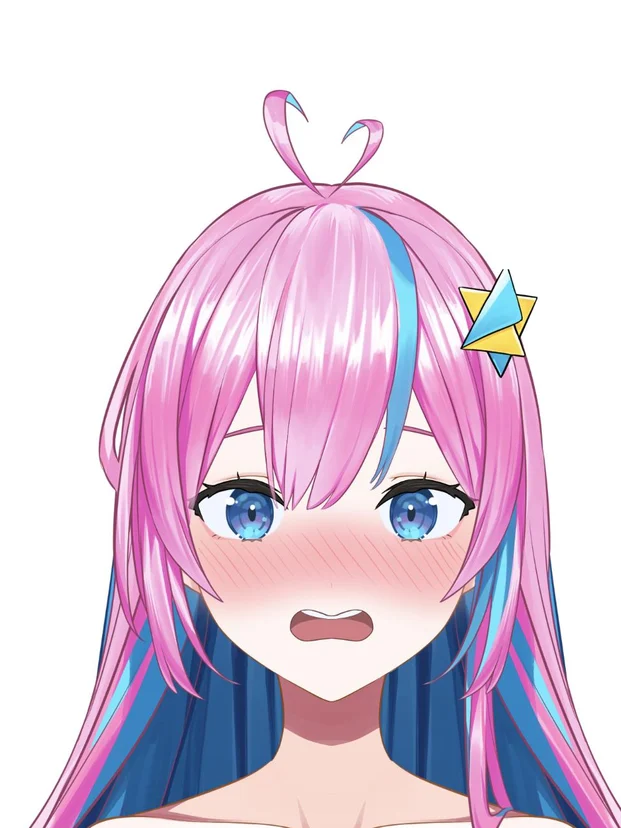
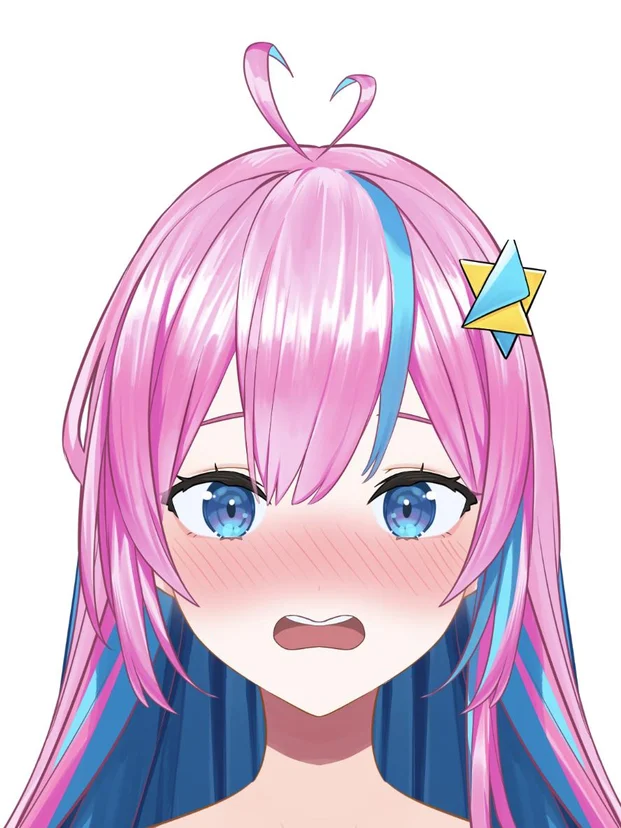
Live2D expressions: consistent centered crops
Claude-Session: https://claude.ai/code/session_0182ETGqkY6VZC2ACV9rE9Mb

diff --git a/index.html b/index.html
@@ -1066,7 +1066,7 @@ var ART = [
   { label:['อีโมต & ไอคอน','Emotes & Icons'], icon:'sticker', imgs:[['art-p-emote-1.webp',1014,1100],['art-p-emote-2.webp',1082,1100],['art-p-emote-3.webp',1100,1092],['art-p-emote-4.webp',1072,1100],['art-p-emote-5.webp',1100,1069],['art-p-emote-6.webp',1100,897],['art-p-emote-7.webp',995,1100],['art-p-emote-8.webp',907,1100],['art-p-emote-9.webp',1100,1096],['art-p-emote-10.webp',1100,895],['art-p-emote-11.webp',878,977],['art-p-emote-12.webp',981,990],['art-p-emote-13.webp',974,985],['art-p-emote-14.webp',970,955],['art-p-emote-15.webp',979,920]], bg:'#FFF0C9', sm:1, desc:['อีโมตและไอคอนแจ้งเตือนสำหรับสตรีม Twitch, YouTube, Discord และนำไปทำสติกเกอร์ LINE ได้','Emotes and alert icons for Twitch, YouTube and Discord, which can also be made into LINE stickers.'], kw:'สติกเกอร์ สติ๊กเกอร์ ไลน์ line sticker อีโมต อิโมจิ ไอคอน แจ้งเตือน emote emoji alert icon twitch discord' },
   { label:['ฉากสตรีม & ฉากหลัง','Stream Assets & Backgrounds'], icon:'image', imgs:[['art-p-stream-1.webp',1350,760],['art-p-stream-2.webp',1396,1600],['art-p-stream-3.webp',1402,1600],['art-p-stream-4.webp',1600,900],['art-p-stream-5.webp',1280,720],['art-p-stream-6.webp',1600,900],['art-p-stream-10.webp',1600,686],['art-p-stream-11.webp',1600,873],['art-p-stream-12.webp',1600,900],['art-p-stream-13.webp',1600,931]], bg:'#E6DEFB', desc:['โอเวอร์เลย์ หน้าโหลด และฉากหลังสำหรับไลฟ์สตรีม','Overlays, loading screens and backgrounds for live streams.'], kw:'โอเวอร์เลย์ ฉากหลัง พื้นหลัง หน้าโหลด สตรีม overlay background loading screen stream asset' },
   { label:['คอมิก / เว็บตูน','Comic / Webtoon'], icon:'panels', imgs:[{comic:[11344,9906,9446,10667,9249,9370,10149,12533,10667,9283,7253].map(function(h,i){ return ['art-comic-p'+(i<9?'0':'')+(i+1)+'.webp',800,h]; }), src:'art-comic-cover.webp', w:1555, h:2200, pv:[[1,0],[2,1],[3,2],[4,3],[5,4]]}], bg:'#FFE3D6', desc:['การ์ตูนช่องและเว็บตูน ตั้งแต่สตอรีบอร์ดถึงลงสี','Comics and webtoons, from storyboard to colour.'], kw:'การ์ตูน คอมมิค เว็บตูน มังงะ comic manga' },
-  { label:['Live2D และริกกิ้ง','Live2D & Rigging'], icon:'rig', imgs:[{v:'art-live2d-1.mp4', snd:1, big:1, src:'art-live2d-1.webp', w:1280, h:720},{src:'art-p-l2d-2.webp?v=2', w:621, h:828, cap:['สีหน้า Live2D','Live2D Face Expression']},{src:'art-p-l2d-3.webp?v=2', w:621, h:828, cap:['สีหน้า Live2D','Live2D Face Expression']},{src:'art-p-l2d-4.webp?v=2', w:621, h:828, cap:['สีหน้า Live2D','Live2D Face Expression']},{src:'art-p-l2dpose-1.webp', w:612, h:816, cap:['ท่าโพส Live2D','Live2D Pose']},{src:'art-p-l2dpose-2.webp', w:621, h:828, cap:['ท่าโพส Live2D','Live2D Pose']},{src:'art-p-l2dpose-3.webp', w:621, h:828, cap:['ท่าโพส Live2D','Live2D Pose']},{src:'art-p-l2dpose-4.webp', w:621, h:828, cap:['ท่าโพส Live2D','Live2D Pose']}], bg:'#E6DEFB', desc:['โมเดล Live2D และริกกิ้ง พร้อมใช้งานสำหรับ VTuber','Live2D models and rigging, ready for VTubers.'], kw:'ไลฟ์ทูดี โมเดล ริก vtuber model live2d' },
+  { label:['Live2D และริกกิ้ง','Live2D & Rigging'], icon:'rig', imgs:[{v:'art-live2d-1.mp4', snd:1, big:1, src:'art-live2d-1.webp', w:1280, h:720},{src:'art-p-l2d-2.webp?v=3', w:621, h:828, cap:['สีหน้า Live2D','Live2D Face Expression']},{src:'art-p-l2d-3.webp?v=3', w:621, h:828, cap:['สีหน้า Live2D','Live2D Face Expression']},{src:'art-p-l2d-4.webp?v=3', w:621, h:828, cap:['สีหน้า Live2D','Live2D Face Expression']},{src:'art-p-l2dpose-1.webp', w:612, h:816, cap:['ท่าโพส Live2D','Live2D Pose']},{src:'art-p-l2dpose-2.webp', w:621, h:828, cap:['ท่าโพส Live2D','Live2D Pose']},{src:'art-p-l2dpose-3.webp', w:621, h:828, cap:['ท่าโพส Live2D','Live2D Pose']},{src:'art-p-l2dpose-4.webp', w:621, h:828, cap:['ท่าโพส Live2D','Live2D Pose']}], bg:'#E6DEFB', desc:['โมเดล Live2D และริกกิ้ง พร้อมใช้งานสำหรับ VTuber','Live2D models and rigging, ready for VTubers.'], kw:'ไลฟ์ทูดี โมเดล ริก vtuber model live2d' },
   { label:['โมชันกราฟิก','Motion Graphic'], icon:'play', imgs:[{v:'art-motion-1.mp4', src:'art-motion-1.webp', w:1280, h:720},{v:'art-motion-3.mp4', src:'art-motion-3.webp', w:1280, h:904},{v:'art-motion-2.mp4', src:'art-motion-2.webp', w:1280, h:720},{v:'art-motion-4.mp4', snd:1, src:'art-motion-4.webp', w:1280, h:502}], bg:'#FFE3D6', desc:['โมชันกราฟิกสำหรับโปรโมตและโซเชียลมีเดีย','Motion graphics for promotion and social media.'], kw:'โมชัน โมชั่นกราฟิก วิดีโอ motion video' },
   { label:['แอนิเมชัน','Animation'], icon:'play', imgs:[{v:'art-anim-1.mp4', snd:1, big:1, src:'art-anim-1.webp', w:1280, h:720}], bg:'#FBDDE8', desc:['แอนิเมชันสำหรับเปิดตัว โปรโมต และคอนเทนต์','Animation for launches, promotion and content.'], kw:'แอนิเมชัน อนิเมชั่น การ์ตูนเคลื่อนไหว animation' },
   { label:['เพลงและ MV','Music & MV'], icon:'play', bg:'#E6DEFB', imgs:[{yt:'laZymlZOSd8',w:16,h:9,t:'แค่ฉันมีเธอ "Together"'},{yt:'8vefV8LsqSU',w:16,h:9,t:'ZONA – REPRISE'},{yt:'THGGlod5bYo',w:16,h:9,t:'MEMORIA · Motion Illustration MV'},{yt:'L6DGM8ZpSkA',w:16,h:9,t:'เอาปากกามาวง · Japanese Style MV'},{yt:'pIWR515faEg',w:16,h:9,t:'ฟ้า · Minimal Lyric Video'}], desc:['แต่งเพลง แต่งเนื้อร้อง อัดร้อง มิกซ์ และทำ MV ตั้งแต่ Lyric Video จนถึง Motion Illustration MV','Original songs, lyrics, vocal recording, mixing and MVs, from lyric videos to full motion-illustration MVs.'], kw:'เพลง แต่งเพลง มิวสิกวิดีโอ เอ็มวี ร้องเพลง มิกซ์ music mv song lyric video' }
